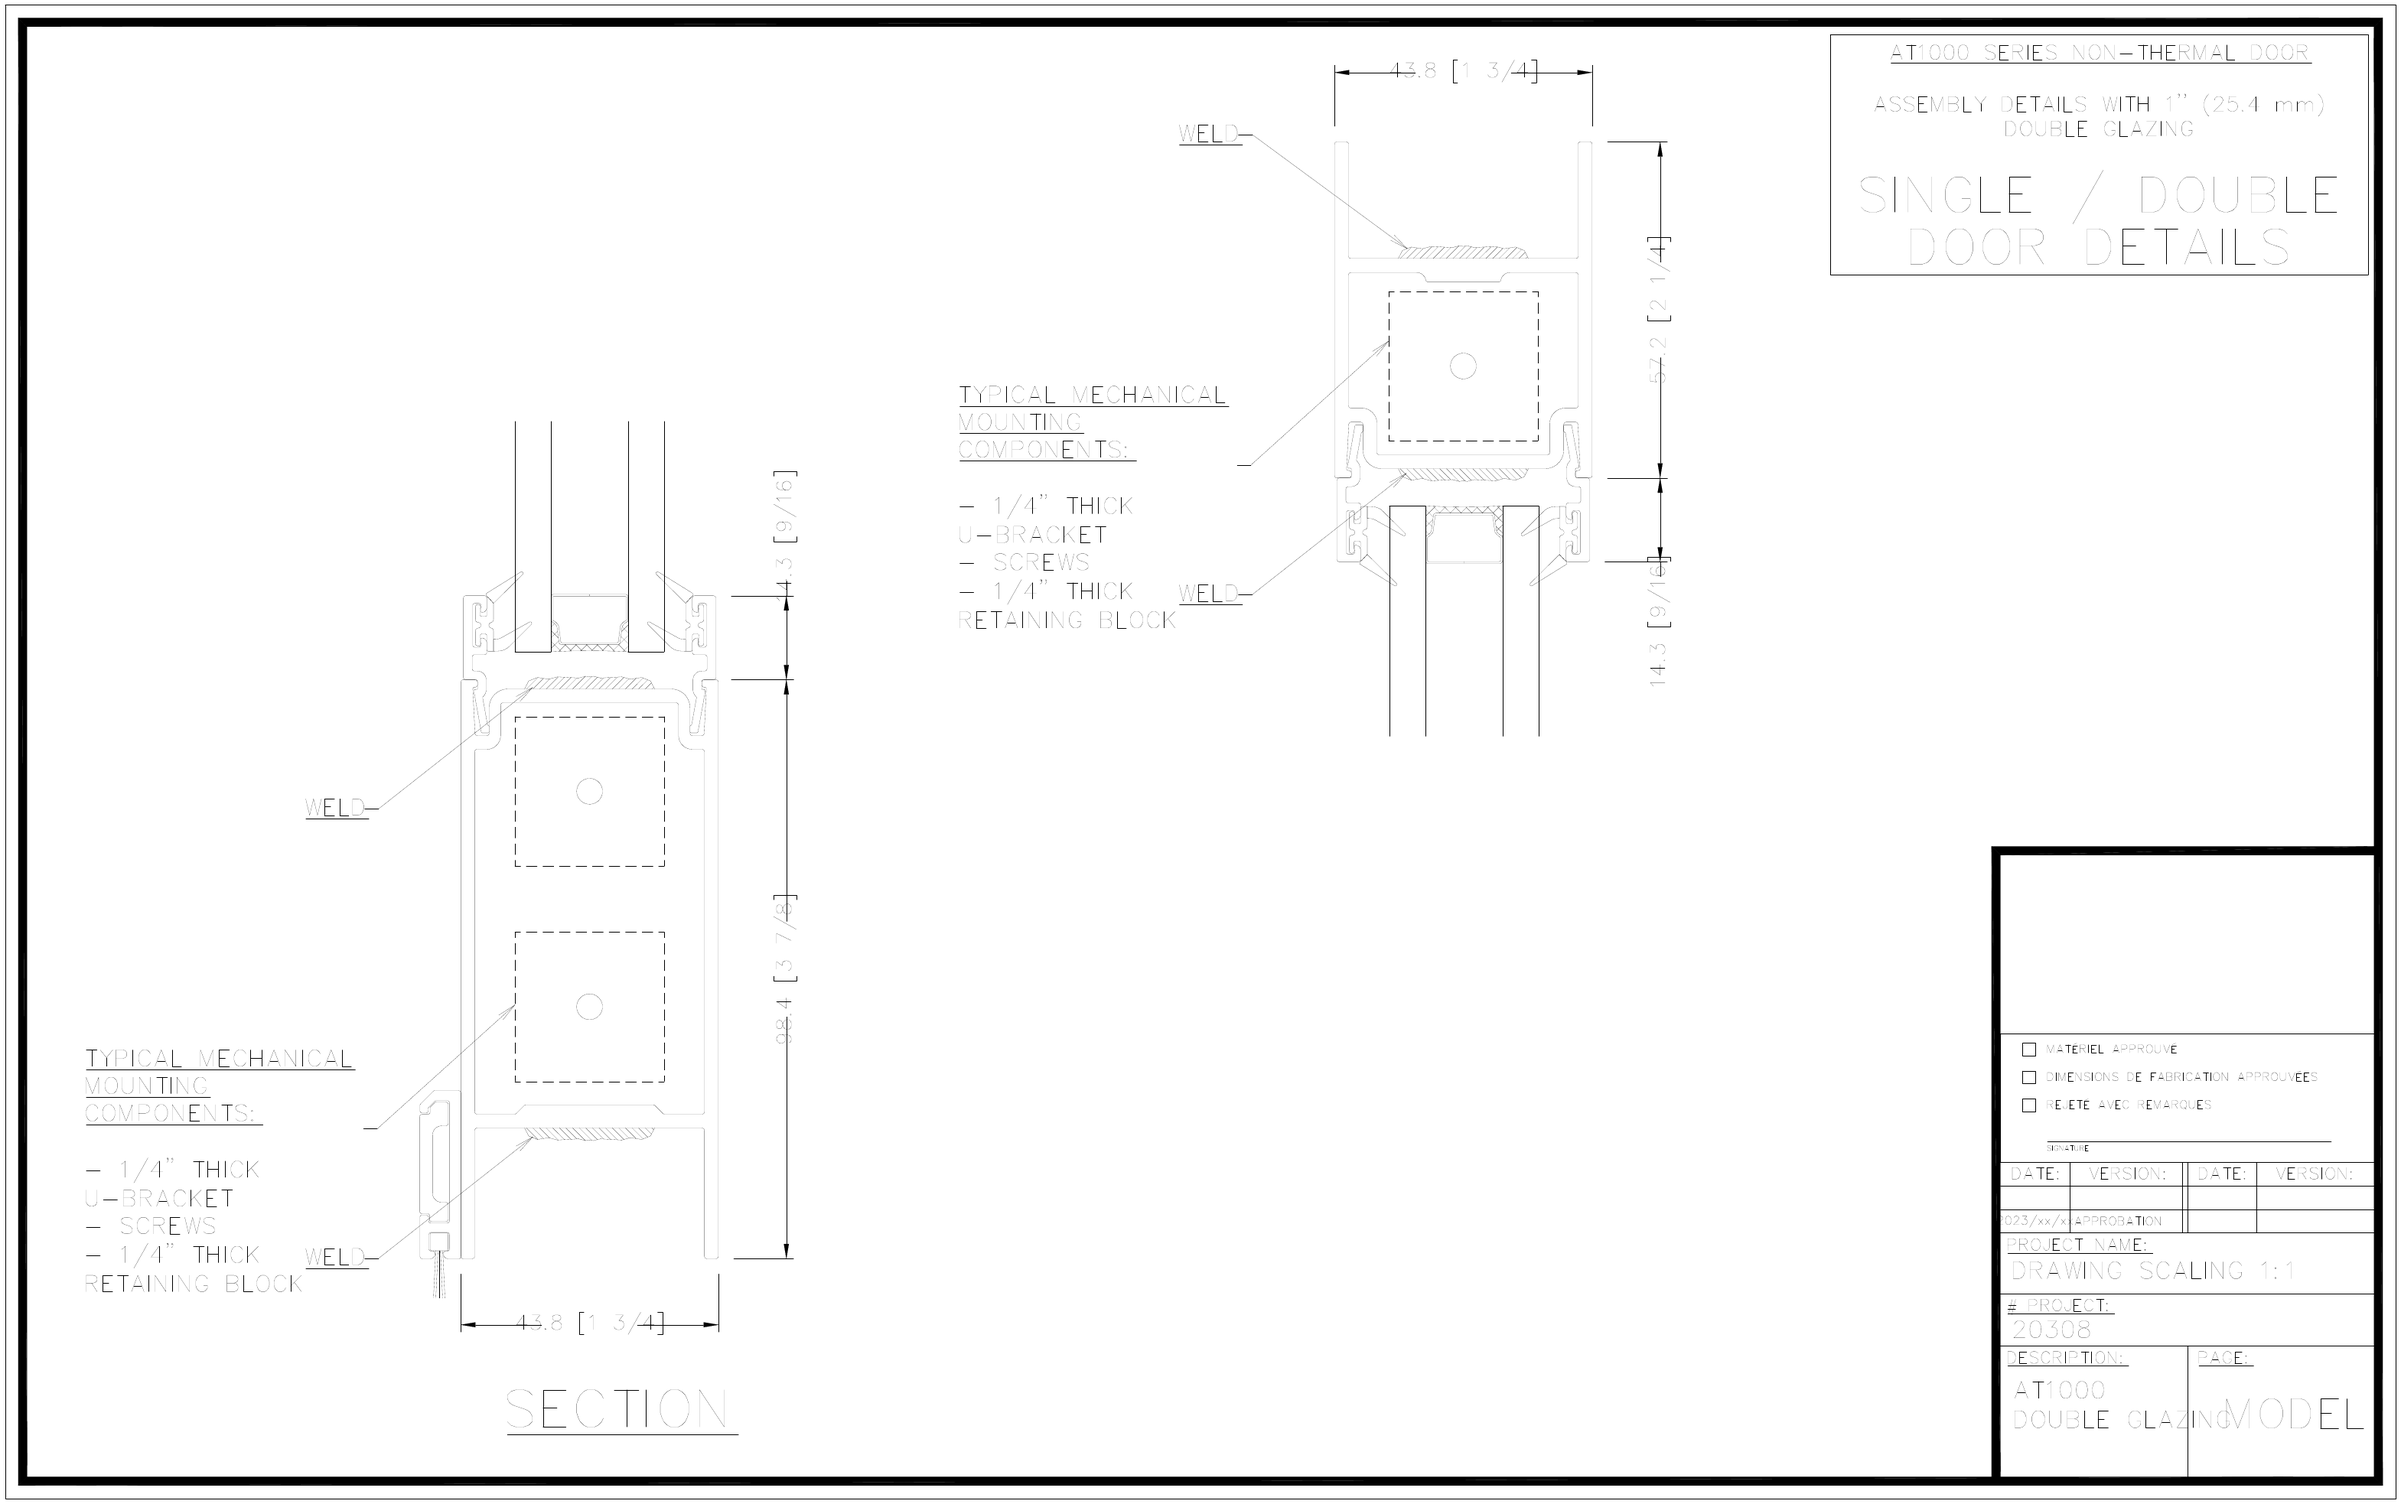
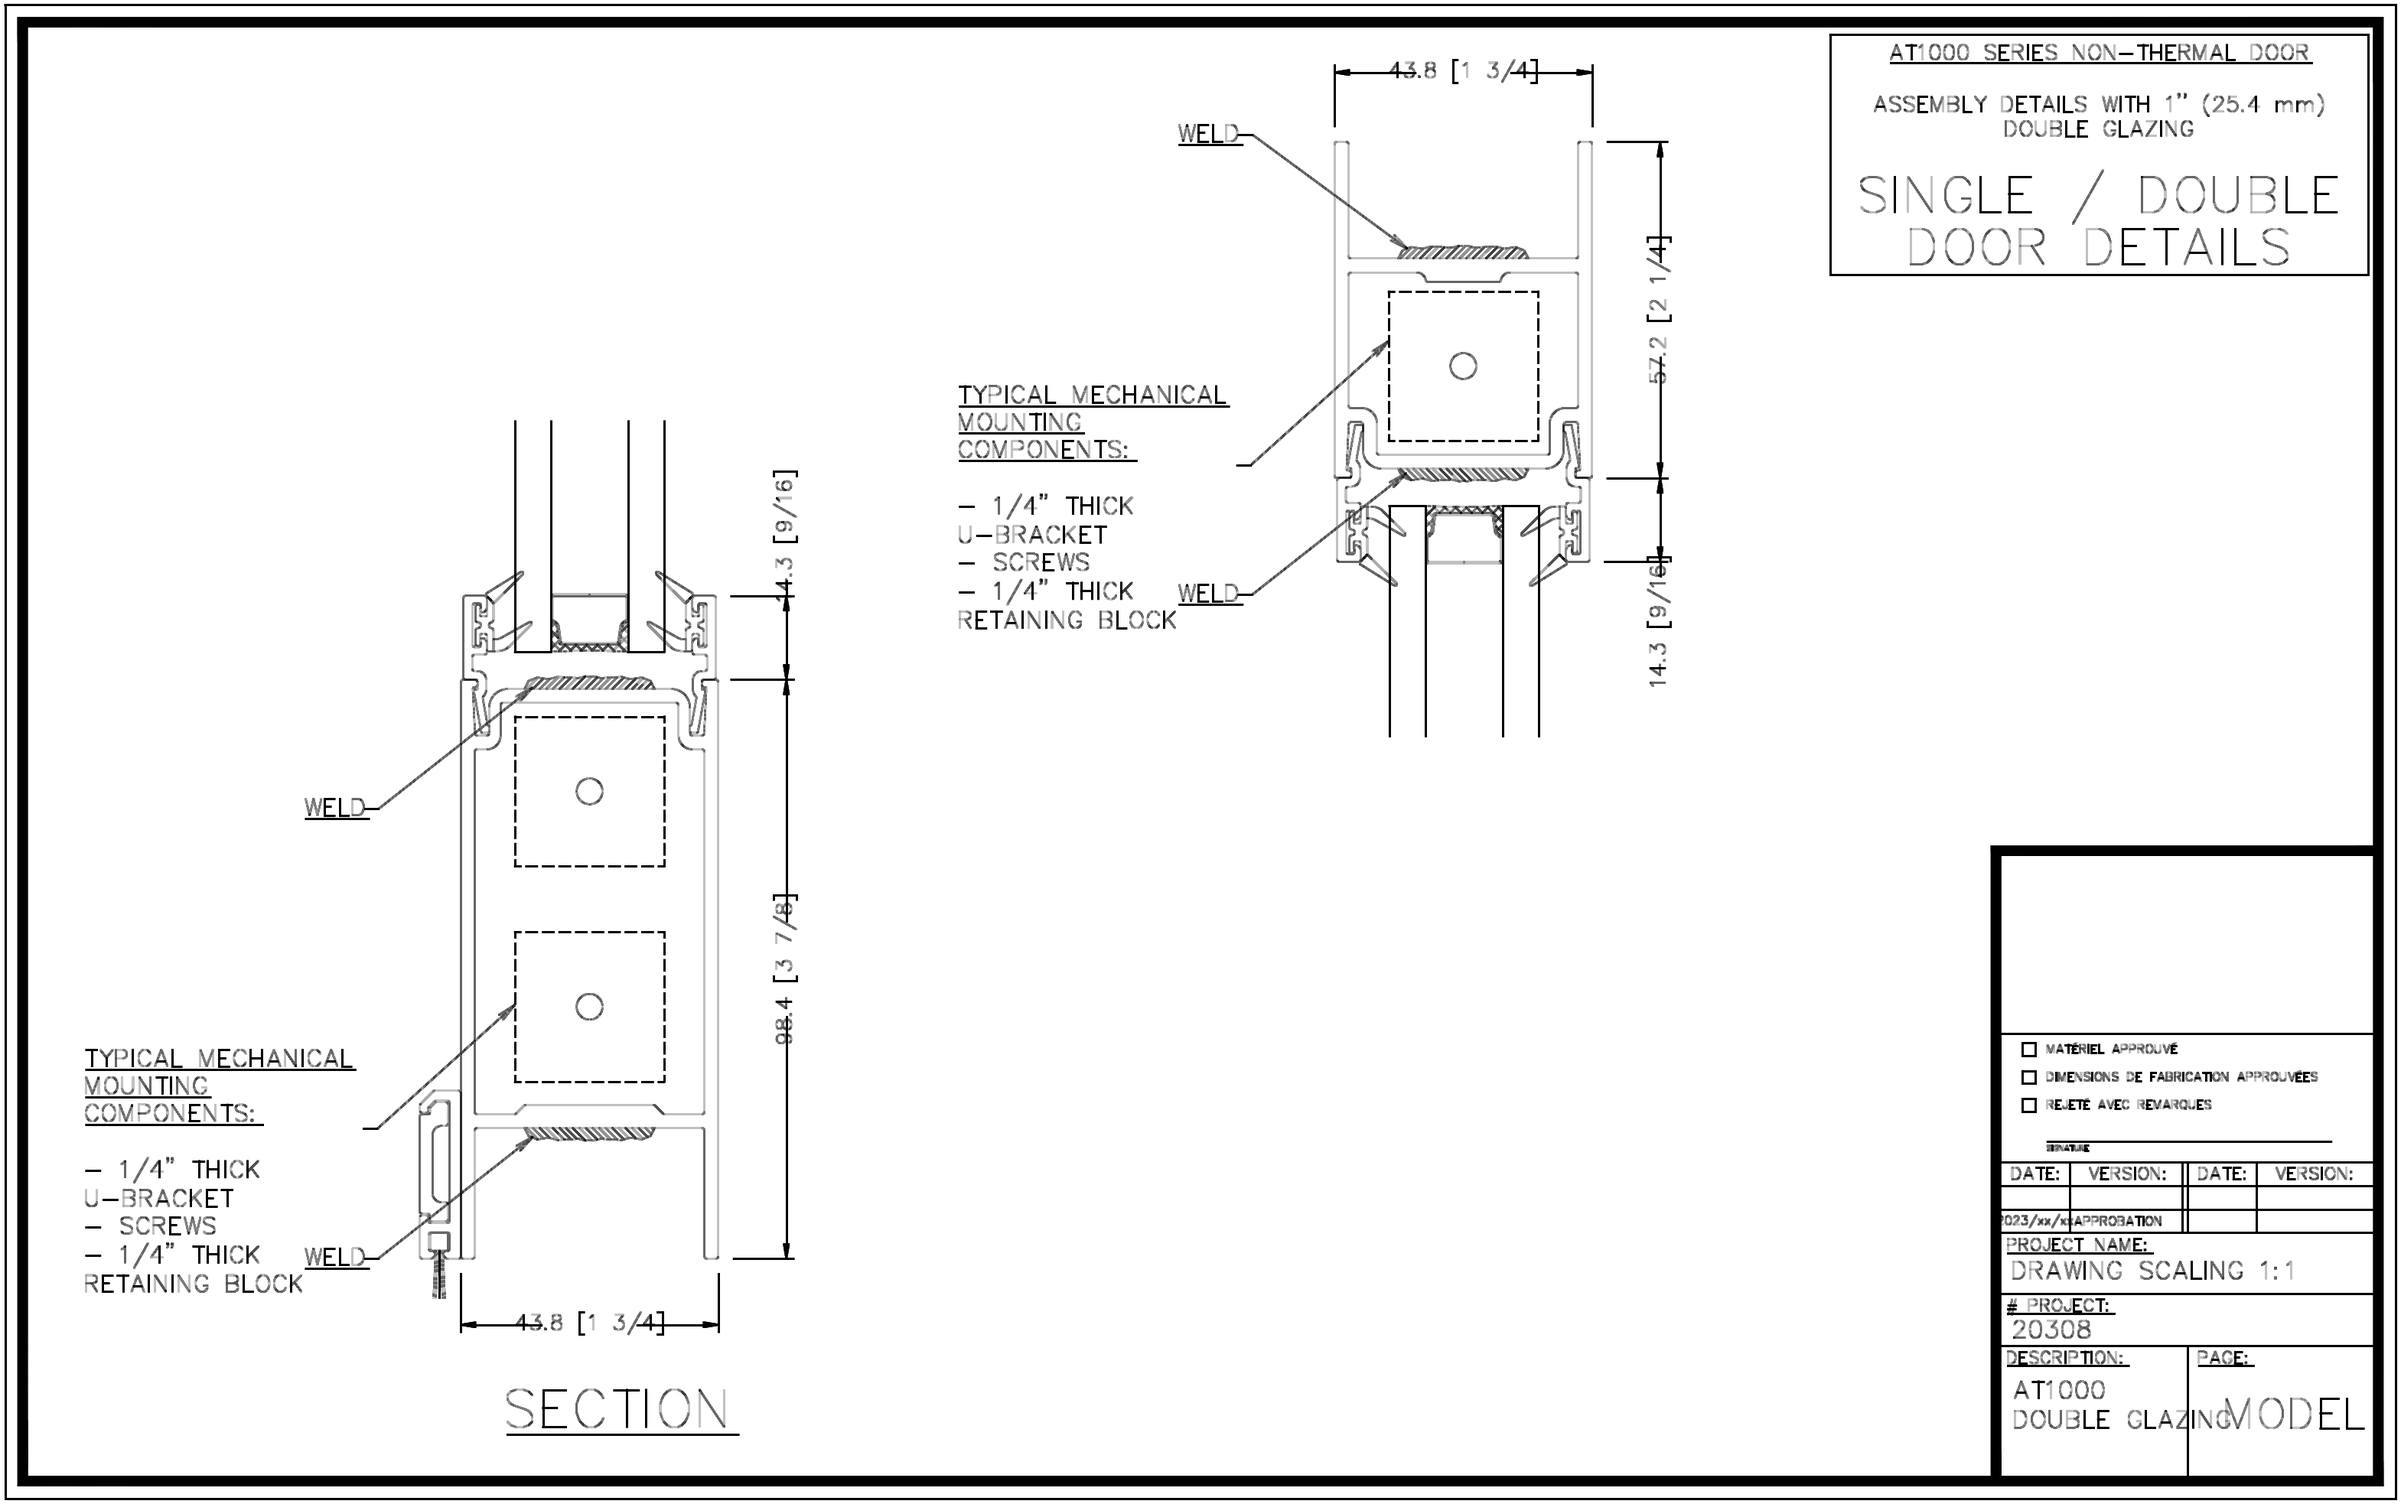
## Coupes plus foncées + couverture complète du cartouche — Premiers ajustements effectués
- **Traits des coupes assombris et épaissis** : les 6 images de coupe ont été retraitées (gamma + épaississement) pour améliorer la netteté des détails. Merci de vérifier si cela correspond à vos attentes.
- **Cartouche couvrant l'ancien** : le masque des dessins de plan par main a été étendu vers le haut pour couvrir la petite case « Par d'autres » précédemment visible.
- Validation partielle via rendu PDF : coupe 400 (traits foncés), plans simples MD/MGR (cartouche propre). Le backend semble stable, mais je vous invite à faire un test approfondi.

**Next Action Items:**
- **Coupes par main**: Fournissez des coupes spécifiques par main pour appliquer un traitement similaire orienté.
- **Portes doubles par main**: Fournissez une banque de plans « porte double » par main au besoin.
- **Logo Client (marque blanche)**: Ajoutez le logo du client final sur la version anonyme au lieu d'un en-tête vide.
- **Réglage finesse traits**: Si les coupes paraissent trop épaisses ou pas assez, je peux ajuster le niveau d'assombrissement.

N'hésitez pas à me signaler si des soucis persistent ou si vous souhaitez que je poursuive avec une analyse plus approfondie et des tests complets.

Emergent-Commit-Key: 935840ec3d486fa9d7155c5944cfdcf1f152accd4aa4c8247e96106baca17011

diff --git a/backend/erp_pdf_production.py b/backend/erp_pdf_production.py
@@ -1467,7 +1467,8 @@ def _mask_ref_titleblock(c, place, style="kovo"):
     c.setFillColor(colors.white)
     c.setStrokeColor(colors.white)
     if style == "simple":
-        c.rect(dx + dw * 0.816, dy + dh * 0.010, dw * 0.182, dh * 0.455,
+        # couvre le bloc cartouche + la petite case « Par d'autres » au-dessus
+        c.rect(dx + dw * 0.810, dy + dh * 0.010, dw * 0.188, dh * 0.560,
                fill=1, stroke=1)
         box = (dx + dw * 0.824, dy + dh * 0.026, dw * 0.168, dh * 0.418)
     else:

diff --git a/memory/PRD.md b/memory/PRD.md
@@ -646,3 +646,8 @@ User language: **French**.
 - Note Miroite et renverse supprimee quand un dessin specifique a la main est utilise (le dessin est deja oriente correctement). Conservee en fallback pour MD/MG.
 - Bandeau rouge PRODUCTION place en haut-droite (zone libre) pour le style simple.
 - Verifie: AT1000 MD/MG, AT2000 MDR/MGR (plans 300-303), coupe 400, ancrage 500.
+
+## 2026-10-06 — Coupes foncees + couverture complete de lancien cartouche
+- Les 6 PNG coupe_*.png assombris/epaissis (gamma 2.1, white cut 243, MinFilter 3) pour des traits bien visibles.
+- _mask_ref_titleblock style=simple: masque etendu vers le haut (h 0.560) pour couvrir aussi la petite case Par dautres au-dessus du cartouche => plus de reste visible.
+- Verifie: coupe 400 (traits fonces), plans simples MD/MGR (cartouche couvre tout).
